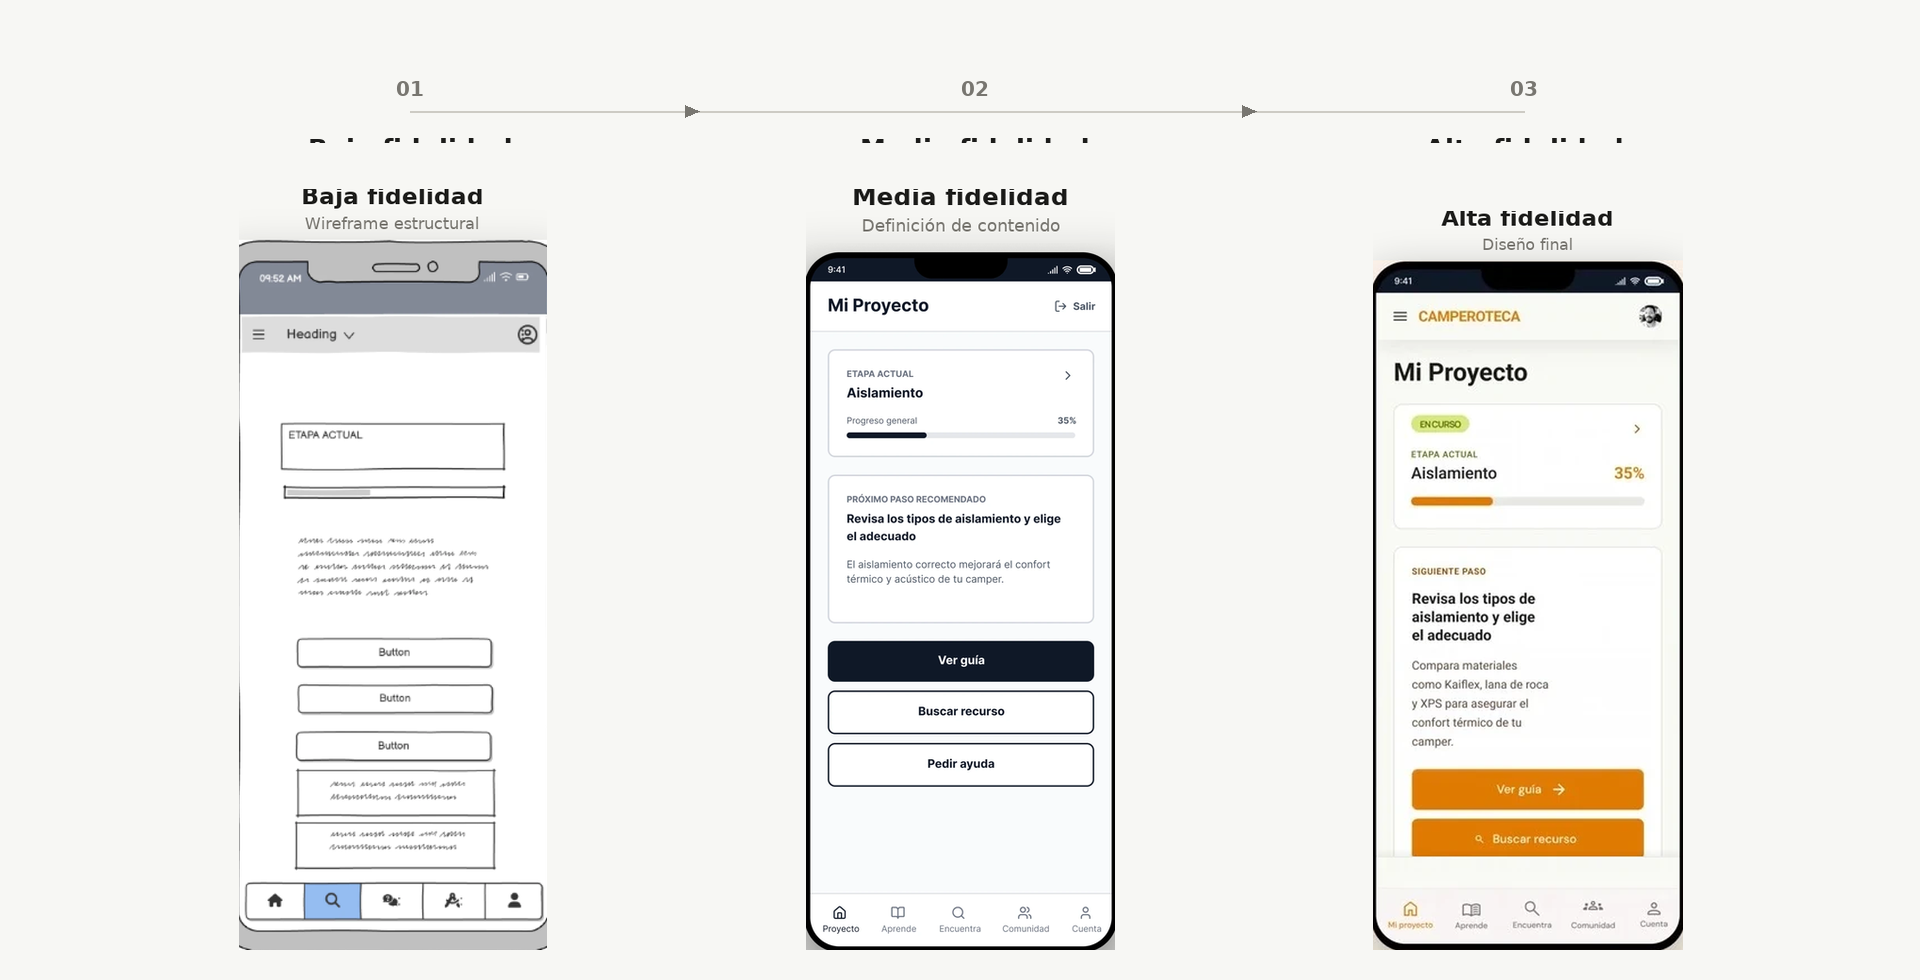
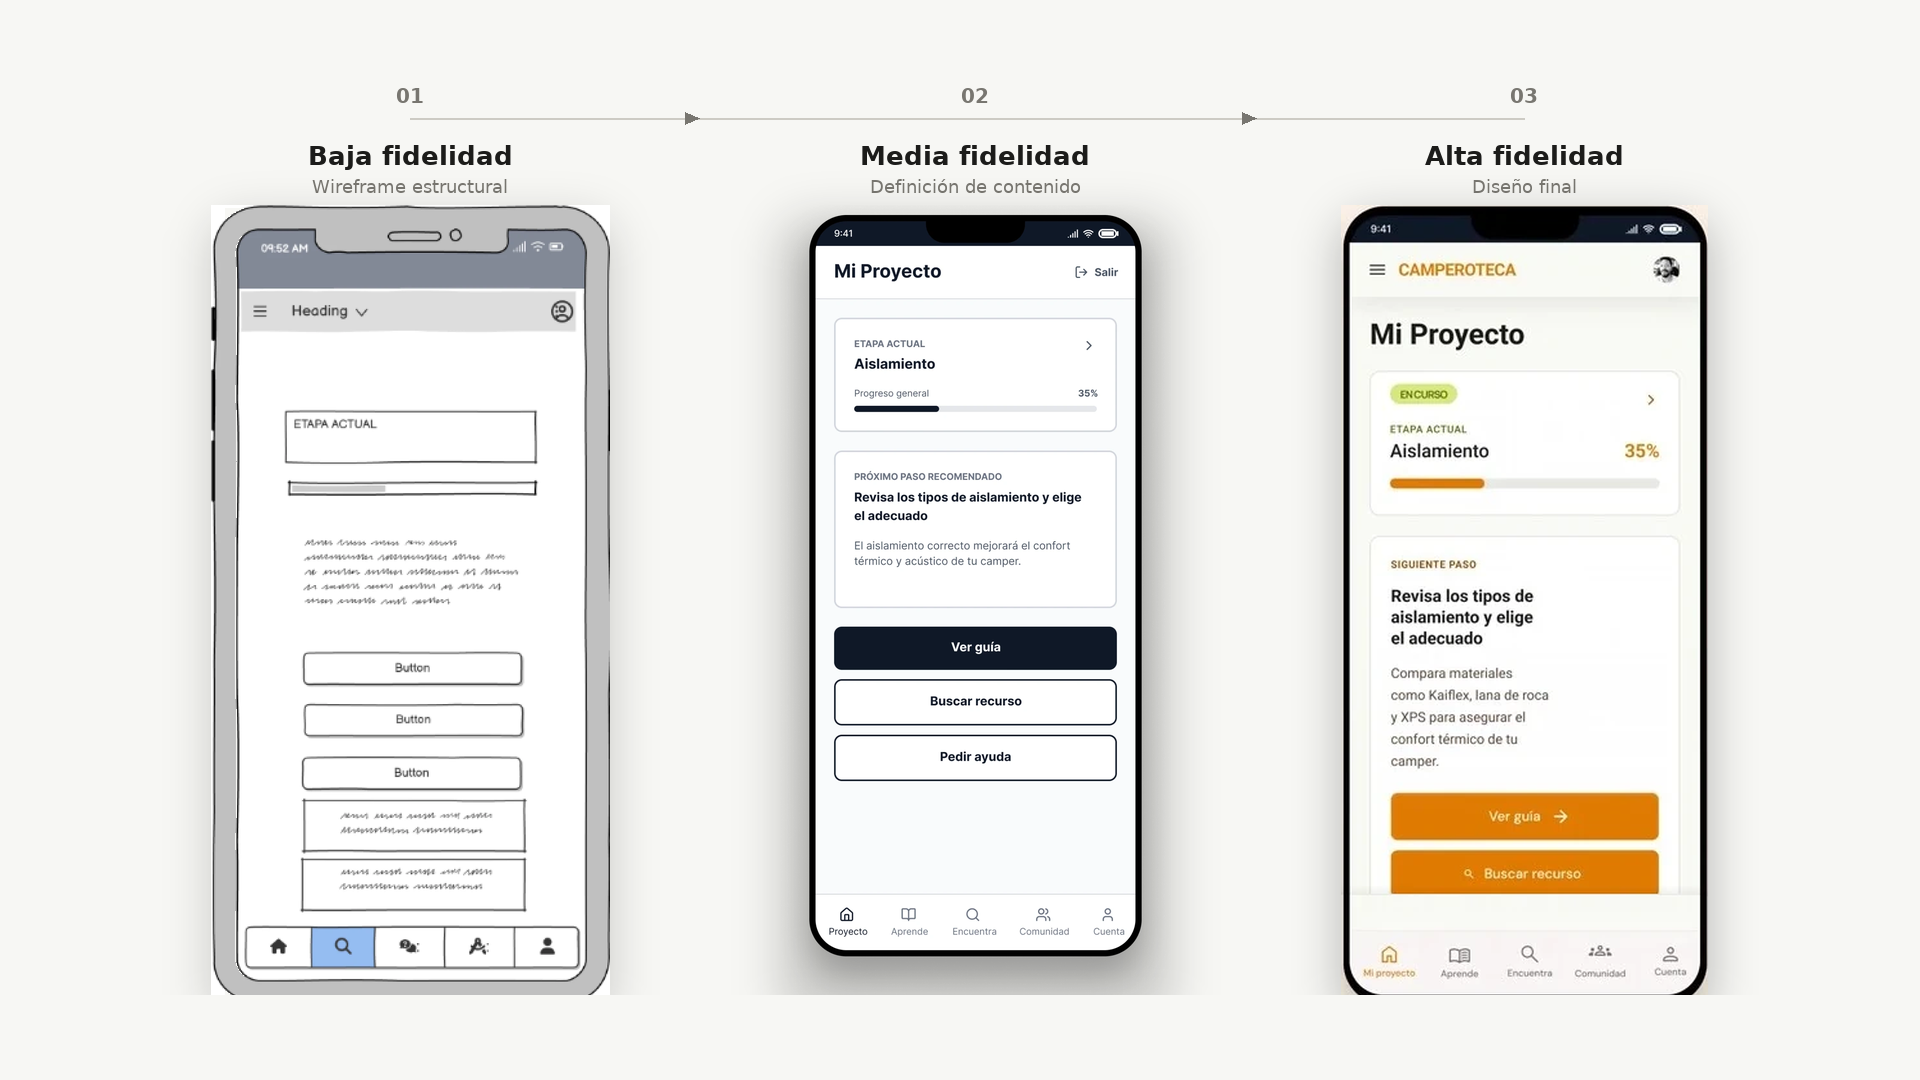
fix(camperoteca): restore original wireframes sizes, clean left border and footer
- Reprocess wireframes-hero.png from original: device sizes unchanged,
  left border imperfection on baja-fidelidad frame cleaned pixel by pixel,
  footer text "Camperoteca · Evolución del diseño UX/UI" erased (y≥995 filled with bg)
- Update Image dimensions to 1920×1080

Claude-Session: https://claude.ai/code/session_01T49Nq8GDc4PkXnjJYWQzec

Changed region(s): [[0.0938, 0.0918, 0.9062, 0.9796]]

diff --git a/app/[lang]/work/camperoteca/page.tsx b/app/[lang]/work/camperoteca/page.tsx
@@ -716,7 +716,7 @@ export default async function CamperotecaPage({ params }: Props) {
               src="/assets/camperoteca/wireframes-hero.png"
               alt="Evolución de wireframes: baja, media y alta fidelidad de las pantallas de Camperoteca"
               width={1920}
-              height={980}
+              height={1080}
               style={{ width: "100%", height: "auto", display: "block" }}
             />
           </div>
